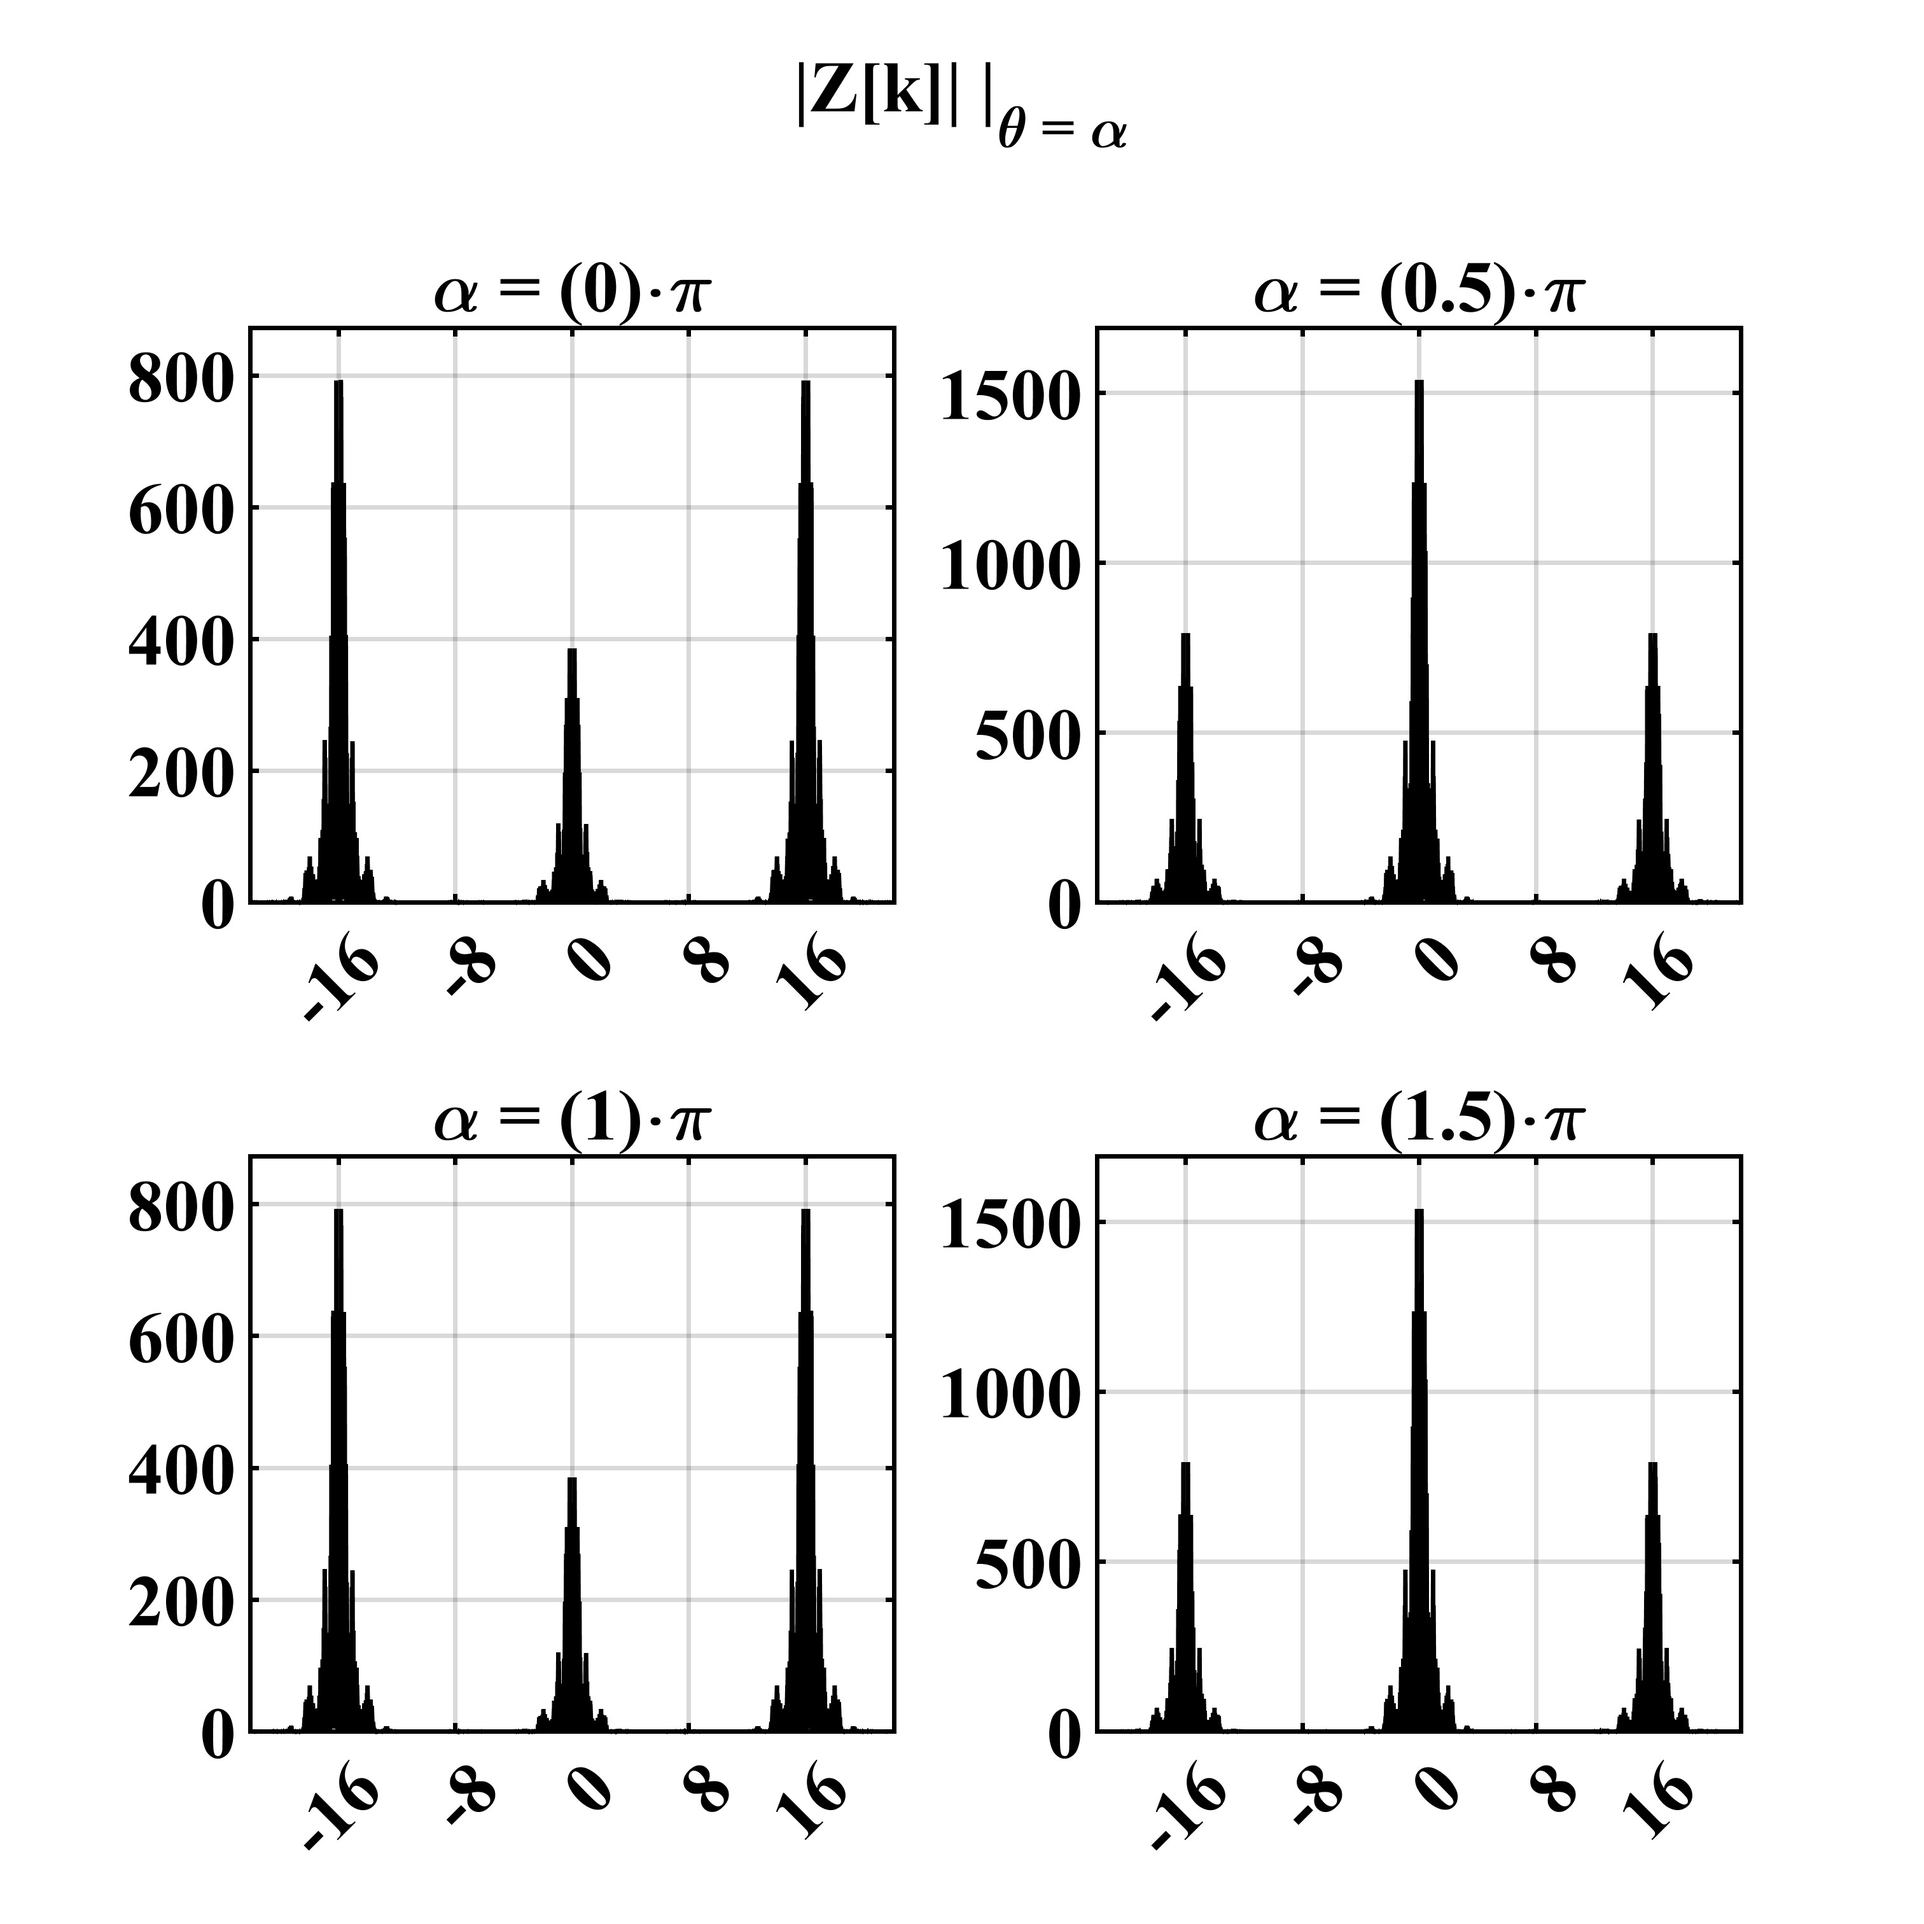
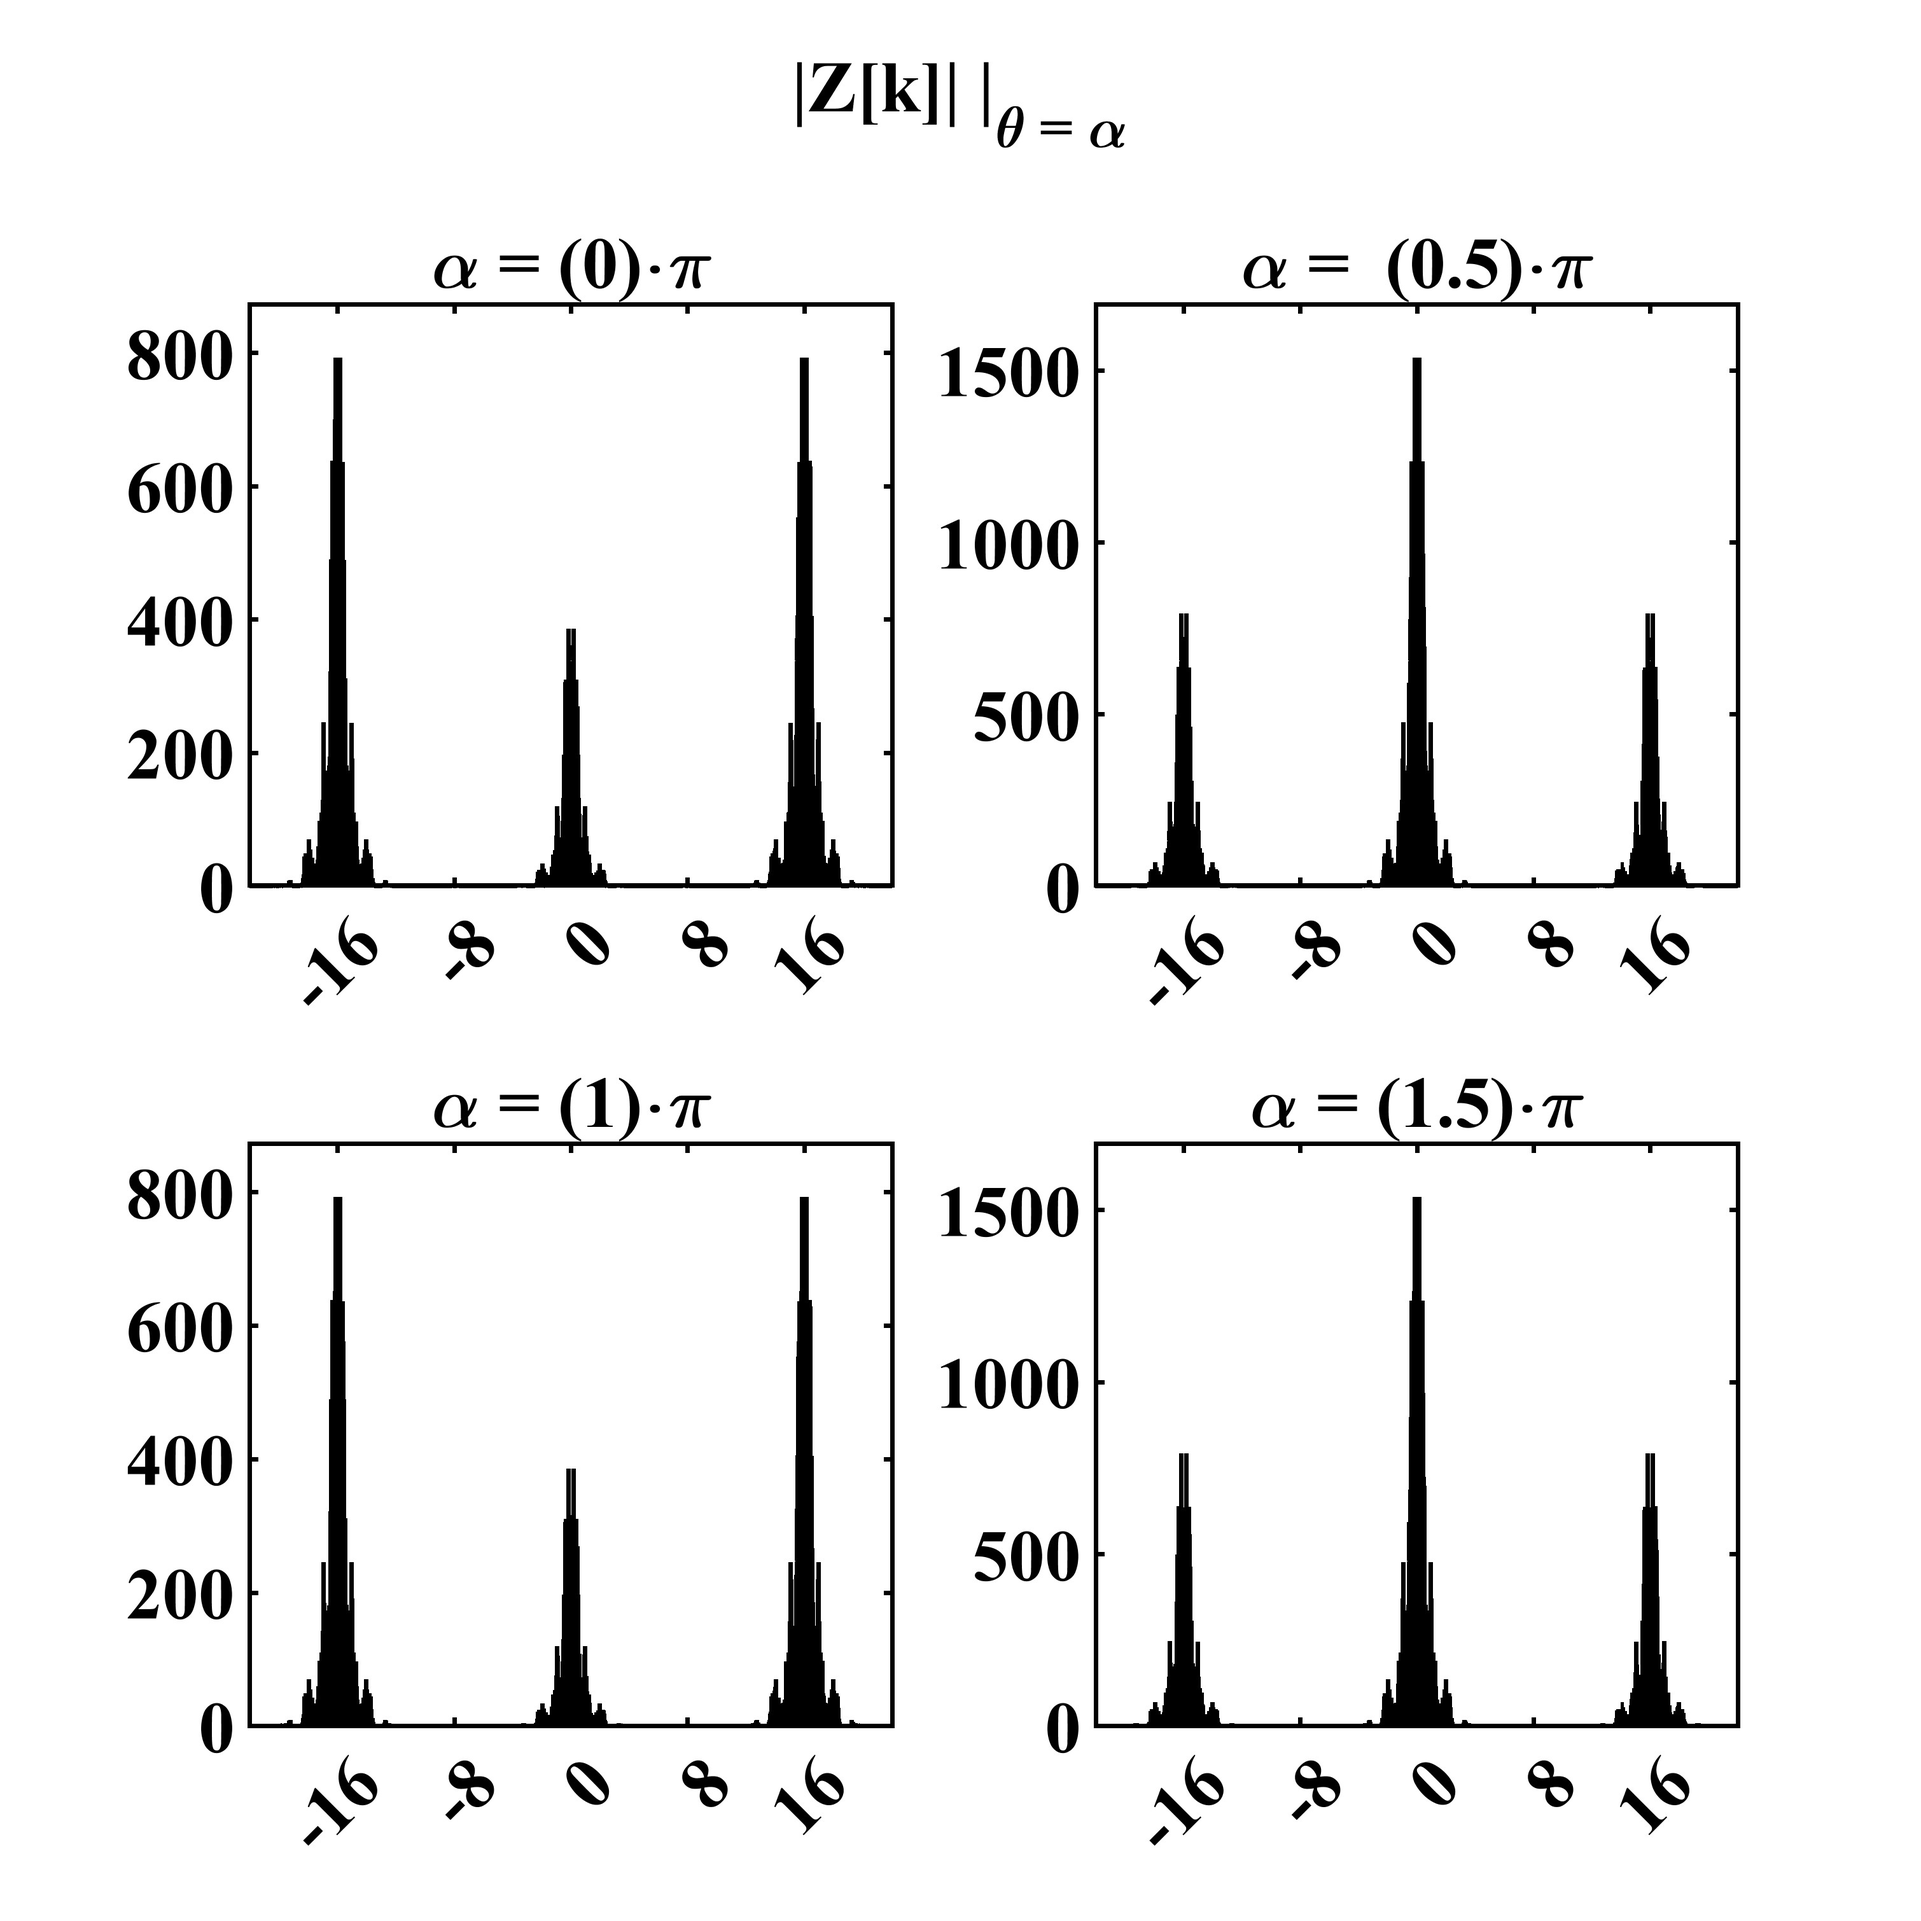
Diversos cambios para mejorar el informe (audio1)

diff --git a/funciones/plot_comp_theta.m b/funciones/plot_comp_theta.m
@@ -23,8 +23,10 @@ function plot_comp_theta(opcion,titulo,vector, fp, n, Ts, y)
             [Z_s, f] = fft_kit(z,1/Ts);
             plot(f, abs(Z_s));
             axis([-1/(2*Ts) 1/(2*Ts) 0 (max(abs(Z_s))*1.1)]);
-            xticks([-22050, -16000, -8000, 0, 8000, 16000, 22050]);
-            xticklabels({'-22.05', '-16', '-8', '0', '8', '16', '22.05'})
+            xticks([-16000, -8000, 0, 8000, 16000]);
+            xticklabels({'-16', '-8', '0', '8', '16'})
+            %xticks([-22050, -16000, -8000, 0, 8000, 16000, 22050]);
+            %xticklabels({'-22.05', '-16', '-8', '0', '8', '16', '22.05'})
             %grid on;
             set(gca,'FontSize', 12); % Tama~no de letra para la leyenda y ejes.
             title("\alpha = (" + vector(i)/pi + ")\cdot\pi", 'FontWeight', 'normal');
